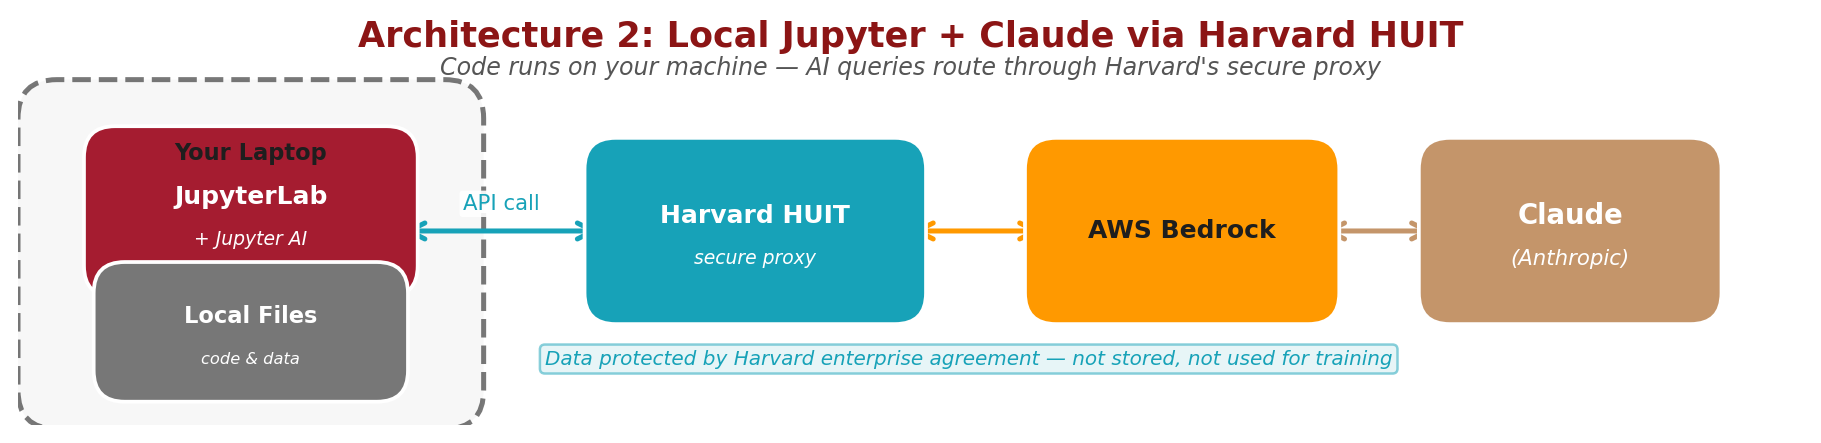
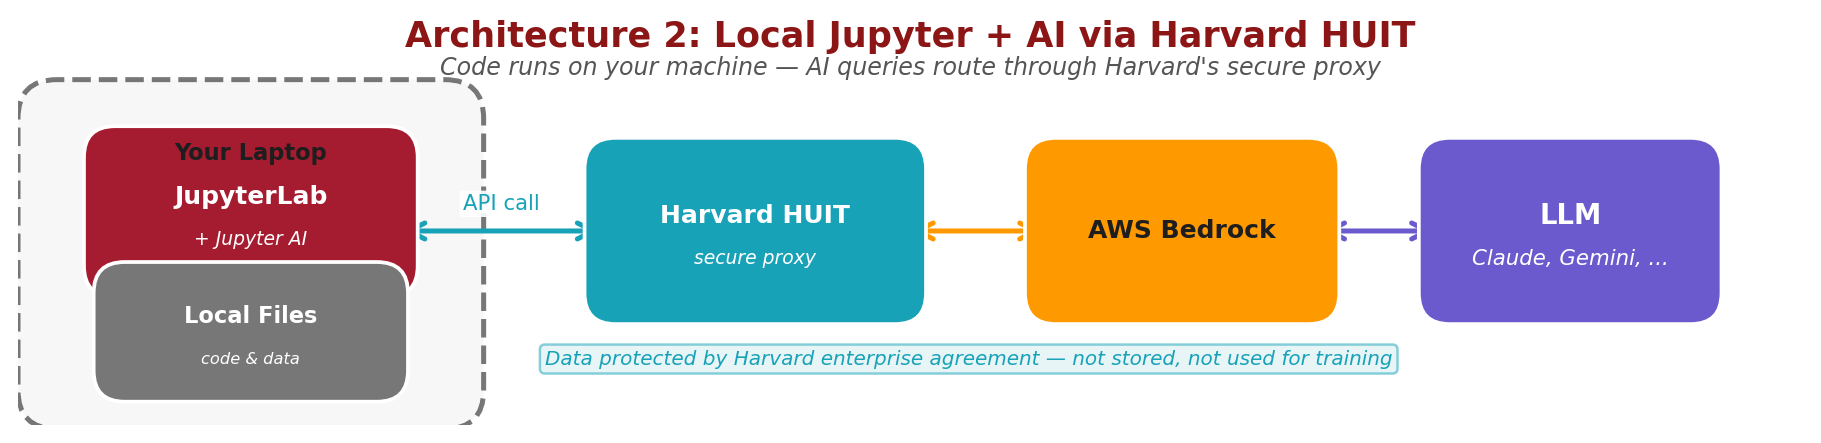
Make Architecture 2 diagram generic (LLM, not just Claude)
The HUIT Bedrock proxy routes to multiple LLMs (Claude, Gemini,
etc.) with the same API key. Updated diagram endpoint box from
"Claude (Anthropic)" to "LLM — Claude, Gemini, ..." and updated
the explanatory text to match.

Changed region(s): [[0.7381, 0.2935, 0.9533, 0.7336], [0.1845, 0.0293, 0.7996, 0.1174]]

diff --git a/session2-coder.html b/session2-coder.html
@@ -62,15 +62,16 @@
 </p>
 
 <p style="text-align: center; margin: 1.5rem 0;">
-    <img src="architecture_local_jupyter.png" alt="Architecture 2: Local Jupyter + Claude via Harvard HUIT proxy"
+    <img src="architecture_local_jupyter.png" alt="Architecture 2: Local Jupyter + AI via Harvard HUIT proxy"
          style="max-width: 700px; width: 100%; border: 1px solid #ddd; border-radius: 6px;">
 </p>
 
 <p>
     In <strong>Exercise 2</strong>, JupyterLab runs on your own machine, so your code and data
     stay local. When you ask the AI for help, the query goes through Harvard's
-    secure HUIT proxy to Claude (Anthropic) via AWS Bedrock, and the response
-    comes back the same way. Your data is protected by Harvard's enterprise agreement.
+    secure HUIT proxy to an LLM (Claude, Gemini, or others) via AWS Bedrock, and the response
+    comes back the same way. The same HUIT API key works for all models available
+    through Bedrock. Your data is protected by Harvard's enterprise agreement.
 </p>
 
 <h2>Prerequisites</h2>
